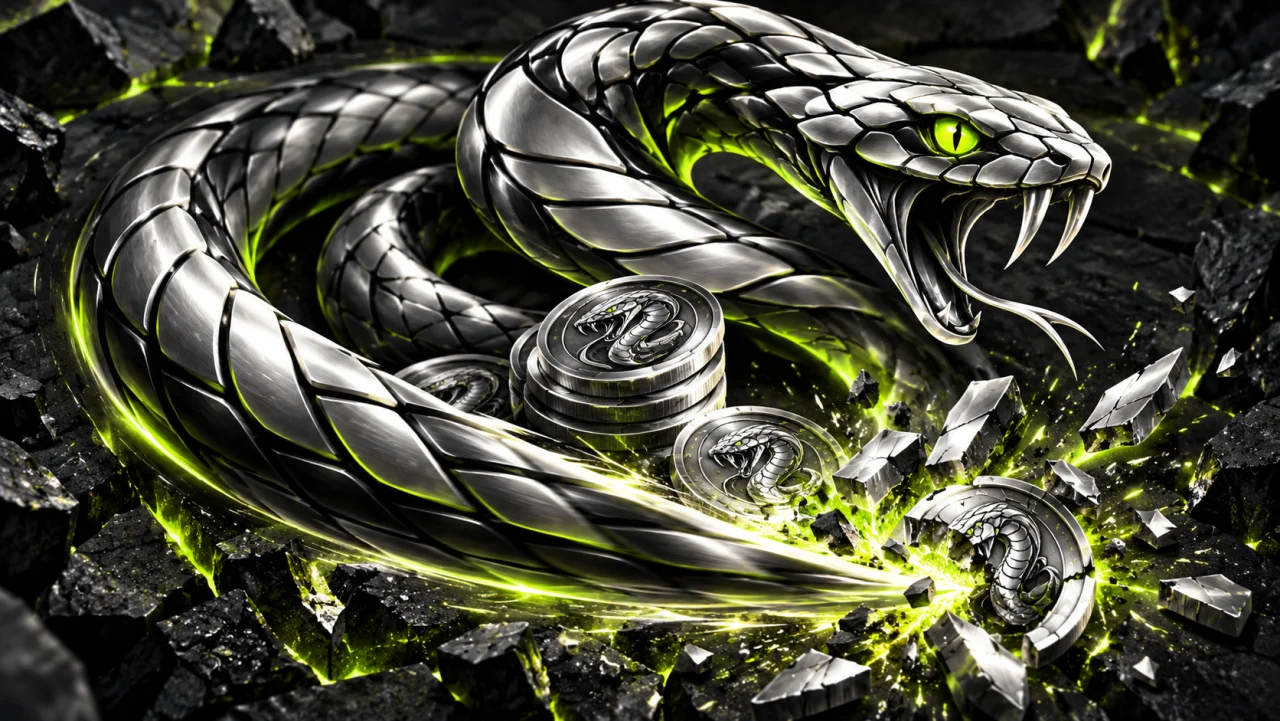
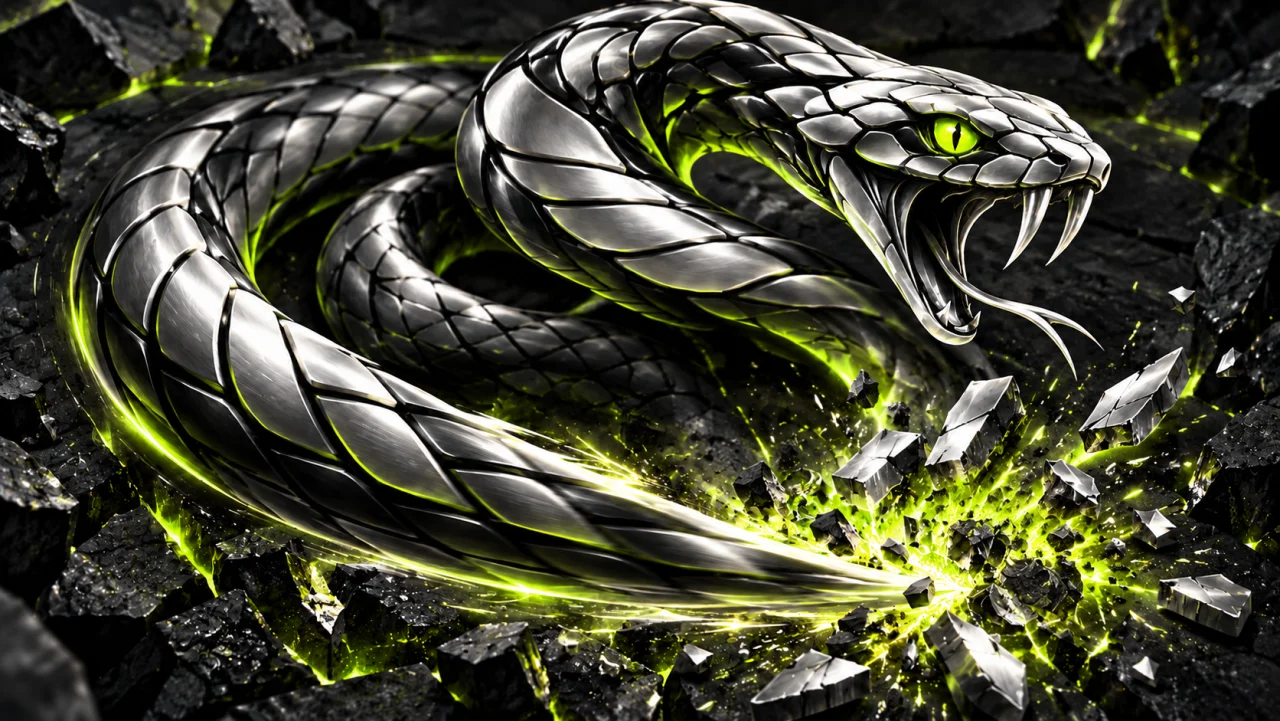
Remove coin props and give each Feast mascot its own pursuing viper

diff --git a/design/ART_BRIEF.md b/design/ART_BRIEF.md
@@ -1,6 +1,6 @@
 # V1PER: website artwork
 
-Use the selected silver snake emblem as the character and style reference. Black gunmetal, sculpted brushed silver scale plates, prominent fangs and lime slit-pupil eyes. Near-black backgrounds, black stone, restrained smoke and lime rim lighting. No text baked into page illustrations. No financial charts, rising price arrows or invented live activity.
+Use the selected silver snake emblem as the character and style reference. Black gunmetal, sculpted brushed silver scale plates, prominent fangs and lime slit-pupil eyes. Near-black backgrounds, black stone, restrained smoke and lime rim lighting. No text baked into page illustrations. No decorative coins, medallions or token stacks in the scenes; the selected header emblem is a separate brand mark. No financial charts, rising price arrows or invented live activity.
 
 ## 1. Home
 
@@ -8,7 +8,7 @@ A silver snake surges diagonally toward the viewer in a twisting S-shaped strike
 
 ## 2. Participation
 
-Free Tokens: a closed-mouth snake hangs in an inverted loop from a stone arch, presenting a single coin with its tail over a finite stack. Lock & Earn: a closed-mouth guardian winds in a figure-eight around a steel vault with a restrained duration motif. Artwork illustrates the subject, not a guarantee of security or return. `public/art/free-tokens.webp`, `public/art/lock.webp`.
+Free Tokens: a closed-mouth snake hangs in an inverted loop from a stone arch, with an expressive curled tail above a clear stone platform. Lock & Earn: a closed-mouth guardian winds in a figure-eight around a steel vault with a restrained duration motif. Artwork illustrates the subject, not a guarantee of security or return. `public/art/free-tokens.webp`, `public/art/lock.webp`.
 
 ## 3. Logo mark
 
@@ -16,11 +16,11 @@ Keep the owner's exact selected emblem. `public/v1per-emblem.png` is the full-re
 
 ## 4. Community, supply and verification
 
-Community: three snakes spiral together in distinct poses with varied angles and expressions. Supply: a sweeping tail whips around a small coin stack and shatters some edge coins into particles. Verification: a watchful closed-mouth snake slides through an open glass frame, seen in a low-angle close-up with abstract connected nodes. These scenes are decorative, never rendered as onchain evidence. `public/art/community.webp`, `public/art/supply.webp`, `public/art/verify.webp`.
+Community: three snakes spiral together in distinct poses with varied angles and expressions. Supply: a sweeping tail whips through lime sparks and silver fragments, with no token medallions or stack props. Verification: a watchful closed-mouth snake slides through an open glass frame, seen in a low-angle close-up with abstract connected nodes. These scenes are decorative, never rendered as onchain evidence. `public/art/community.webp`, `public/art/supply.webp`, `public/art/verify.webp`.
 
 ## 5. Feast menu
 
-`public/feast-menu.webp`: the silver snake lunges horizontally across a banquet table, scooping an original generic puppy into its jaws as a generic frog and another puppy scatter; its tail tips a platter in a comic burst of movement. Non-graphic cartoon rivalry, no blood or injury, no official mascots or third-party logos. Accepted tickers stay in HTML, always readable whether the image loads or fails. The scene does not identify which assets are eligible; exact assets and networks are listed in the participation page.
+`public/feast-menu.webp`: three separate silver vipers pursue a Doge-style tan dog, a Shiba-style orange dog and a Pepe-style frog across a candlelit banquet table. Each snake has a distinct pose and prey target. Non-graphic cartoon rivalry, no blood or injury, stylized meme rivalry, no coin logos or implied affiliation. Accepted tickers stay in HTML, always readable whether the image loads or fails. The scene does not identify which assets are eligible; exact assets and networks are listed in the participation page.
 
 ## Delivery
 

diff --git a/design/SITE_VISUAL_REFRESH.md b/design/SITE_VISUAL_REFRESH.md
@@ -2,13 +2,13 @@
 
 ## Outcome
 
-Carry the owner's selected emblem across every page: fierce silver snake, black and graphite surfaces, silver text, lime eyes and actions. Give each participation topic a distinct narrative and composition: forward strike, inverted coin offering, chaotic banquet, figure-eight vault guardian, interwoven community, sweeping burn and stealthy verification. Closed mouths, varied camera angles and expressive tail gestures add range. Keep the pages separate, the fixed snakeskin navigation visible, and Back to home easy to find.
+Carry the owner's selected emblem across every page: fierce silver snake, black and graphite surfaces, silver text, lime eyes and actions. Give each participation topic a distinct narrative and composition: forward strike, inverted snake greeting, chaotic banquet, figure-eight vault guardian, interwoven community, sweeping burn and stealthy verification. Closed mouths, varied camera angles and expressive tail gestures add range. Keep the pages separate, the fixed snakeskin navigation visible, and Back to home easy to find.
 
 ## Scope and constraints
 
 - Seven generated scenes: home, free tokens, Feast, locks, community, supply, verification.
 - Home cards preview each destination; participation intros put concise copy beside art on desktop and above art on mobile.
-- Forms, status messages, data and disclosures use opaque readable panels. Coin lists are accessible HTML, not image text.
+- All scene artwork omits decorative coins, medallions and token stacks. Feast depicts three separate vipers pursuing distinct Doge-style, Shiba-style and Pepe-style mascots. Forms, status messages, data and disclosures use opaque readable panels. Coin lists are accessible HTML, not image text.
 - Rules stays concise and expandable; Monitor continues to label unavailable data. White Paper keeps the real centered scrollable PDF with black sidebars and the shared header.
 - No changes to contracts, economics, launch configuration, wallet signatures, transaction checks or social destinations. Participation remains closed until verified deployment.
 

diff --git a/design/BRAND_KIT.md b/design/BRAND_KIT.md
@@ -7,7 +7,7 @@
 1. Viper is a calm, confident apex predator, at the top of the food chain from day one.
 2. The homepage provides wallet connection and concise links to dedicated free-token, Feast, lock, community and supply pages. Every page shares fixed navigation and a Back to home link. Rules presents a short timeline and expandable terms.
 3. Clear actions and availability come first. “Get started” leads to the participation overview; community links live on the Community page without a dialog. Unconfigured social channels say “Coming soon.”
-4. Feast art uses generic cute critters only. Never use recognizable third-party coin mascots.
+4. Feast art uses stylized Doge-like and Shiba-like dogs and a Pepe-like frog, each pursued by a different silver snake. Treat this as meme rivalry without implying affiliation or endorsement. No coin props or repeated medallions in scene art.
 
 ## Core idea
 
@@ -39,7 +39,7 @@ V1PER Coin is an independent Sui project, unaffiliated with other projects using
 | Body | DM Sans | Explanations and captions |
 | Main artwork | `public/art/home.webp` | Generated silver snake scene matching the selected emblem |
 | Coin emblem | `public/v1per-emblem.webp` / `.png` | Fierce silver viper, black coin face, lime eye; optimized header/favicon and full-resolution asset |
-| Feast artwork | `public/feast-menu.webp` | Silver snake and original generic critters; accepted coins remain HTML text |
+| Feast artwork | `public/feast-menu.webp` | Three silver snakes pursuing stylized meme mascots; accepted coins remain HTML text |
 | Sharing preview | `public/social-preview.png` | Same metallic hero artwork, 1200 × 675 |
 
 The [editable social layout preview](social-kit.html) uses the current website artwork. It contains a square character card, a square Hunt Board prompt, and a wide “Memes with Bite” card. Follow [ART_BRIEF.md](ART_BRIEF.md) for the replacement illustrations. Replace wording, proofread, and export at the platform's final dimensions. These are campaign mockups, not evidence that a program is live.
